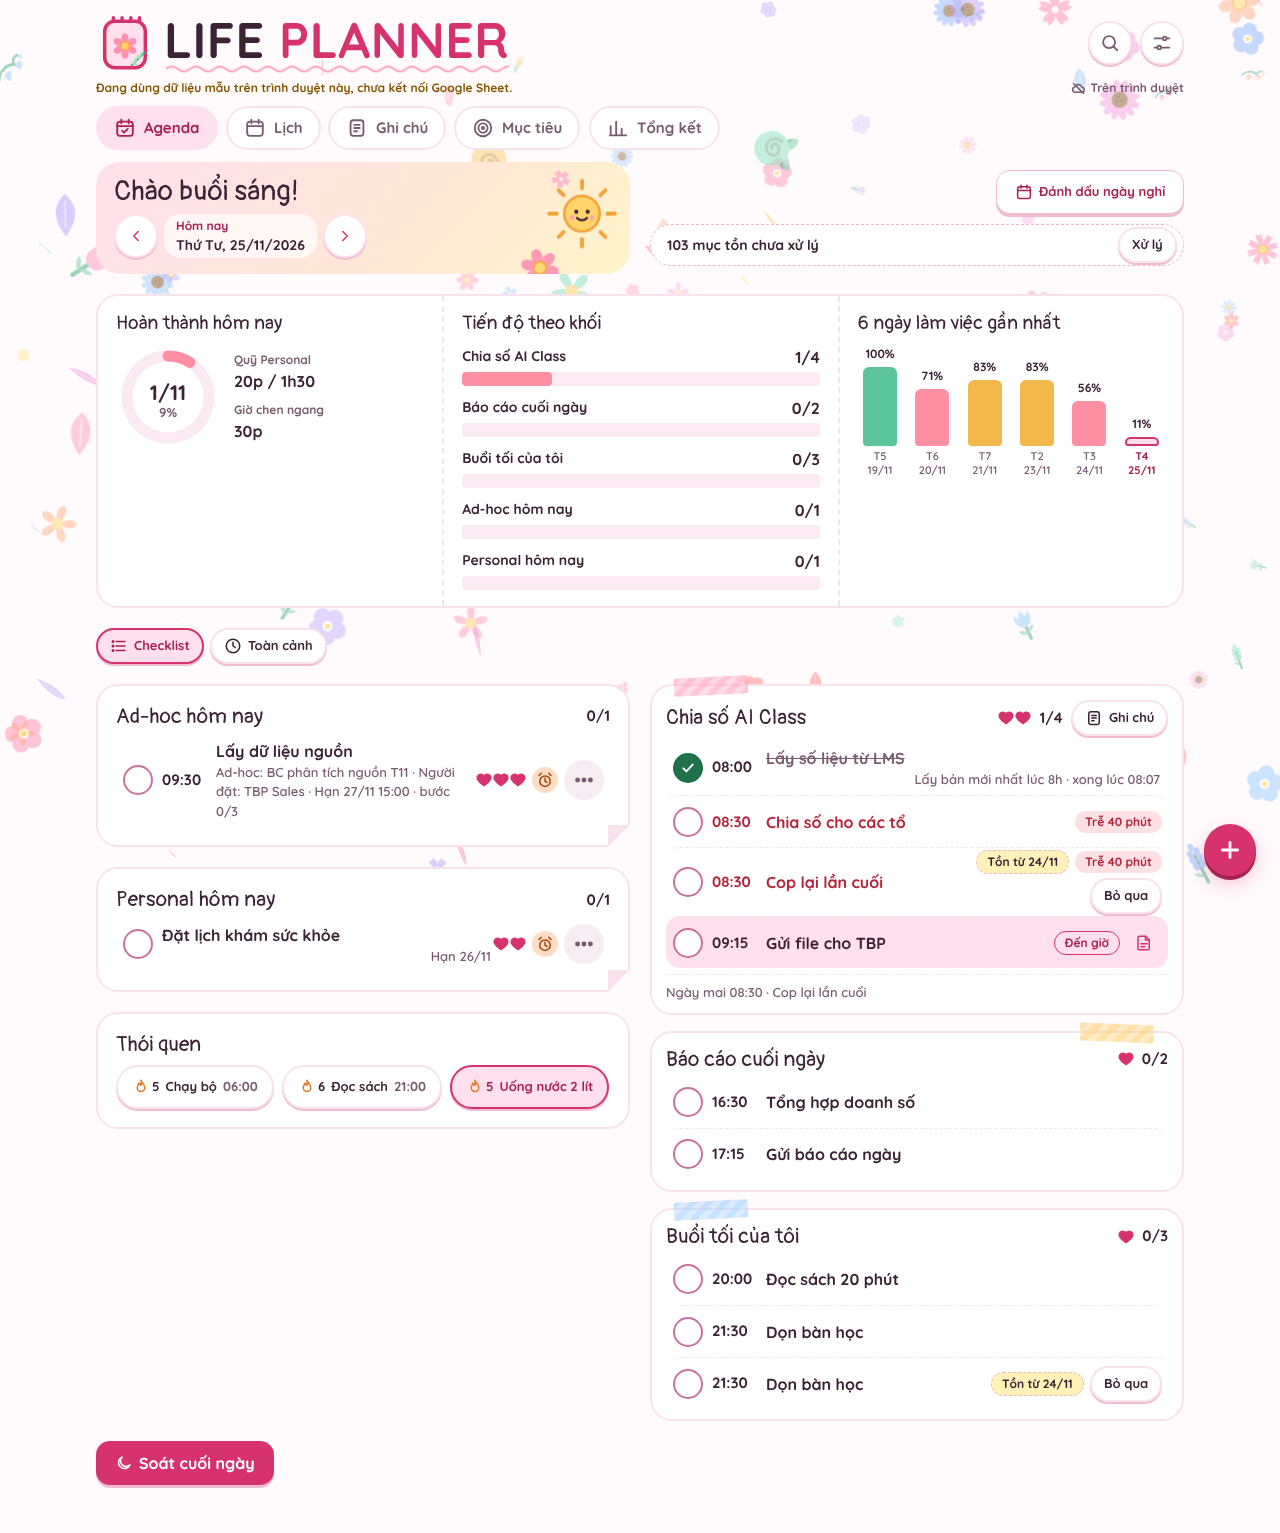
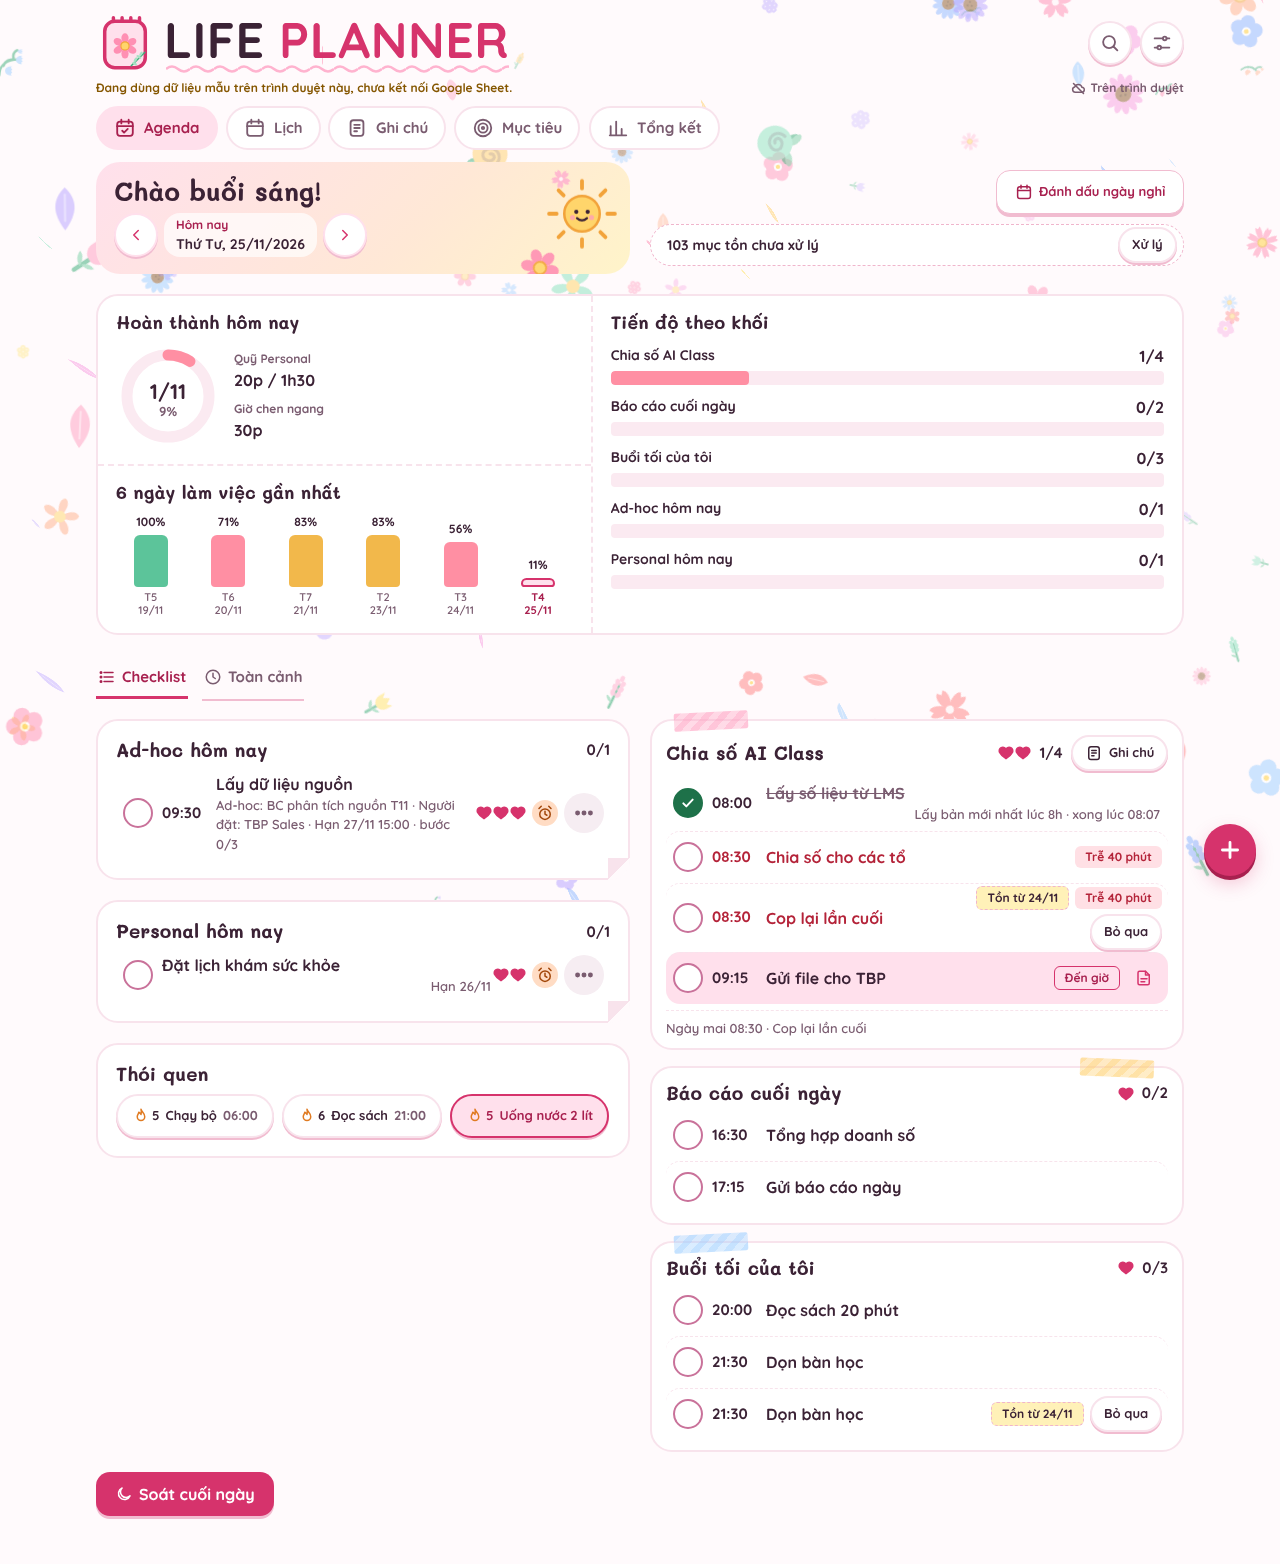
V2: sổ tay Agenda vòng 2 (phông Mali, dải biểu đồ 2 cột không đều, nhãn góc vuông nhẹ, tab gạch chân)
Claude-Session: https://claude.ai/code/session_0149sgxtJqjnDkquQg9Zcj1E

diff --git a/src/v2/css/agenda.css b/src/v2/css/agenda.css
@@ -205,12 +205,12 @@
 @media (max-width:430px){.ag-hello{padding-right:76px}.ag-hello .ag-sun{width:60px;height:60px;right:8px}.ag-daypick{padding:2px 8px}}
 
 /* ---------- Sổ tay (thử 26/11): bớt kiểu bảng điều khiển, giống trang sổ kế hoạch ----------
-   Tiêu đề viết tay (Pangolin), thẻ phẳng có viền giấy, băng dính washi trên khối Daily,
+   Tiêu đề viết tay (Mali), thẻ phẳng có viền giấy, băng dính washi trên khối Daily,
    dải 3 biểu đồ gộp thành một trang có vạch đứt ngăn cột. */
-.ag{--hand:'Pangolin',var(--display)}
-.ag-hello h1,.ag h2{font-family:var(--hand);font-weight:400;letter-spacing:.2px}
-.ag-hello h1{font-size:28px;line-height:1.15}
-.ag h2{font-size:21px}
+.ag{--hand:'Mali',var(--display)}
+.ag-hello h1,.ag h2{font-family:var(--hand);font-weight:700;letter-spacing:0}
+.ag-hello h1{font-size:26px;line-height:1.2}
+.ag h2{font-size:19px}
 
 /* Thẻ phẳng: viền giấy thay cho bóng */
 .ag .card{box-shadow:none;border:2px solid var(--line)}
@@ -221,7 +221,23 @@
 .ag-charts>.ag-chart{border:0;border-radius:0;background:transparent;padding:16px 18px}
 .ag-charts>.ag-chart+.ag-chart{border-top:2px dashed var(--line)}
 @media (min-width:900px){.ag-charts>.ag-chart+.ag-chart{border-top:0;border-left:2px dashed var(--line)}}
-.ag-chart h2{font-size:19px}
+.ag-chart h2{font-size:18px}
+/* Máy tính: 2 cột không đều, Hoàn thành và 6 ngày xếp chồng bên trái, Tiến độ theo khối chiếm cột phải */
+@media (min-width:900px){
+  .ag-charts{grid-template-columns:minmax(0,1fr) minmax(0,1.2fr)}
+  .ag-charts>.ag-chart:nth-child(1){grid-column:1;grid-row:1}
+  .ag-charts>.ag-chart:nth-child(2){grid-column:2;grid-row:1 / span 2}
+  .ag-charts>.ag-chart:nth-child(3){grid-column:1;grid-row:2;border-left:0;border-top:2px dashed var(--line)}
+  .ag-charts .ag-cols{height:104px}
+}
+
+/* Nhãn trạng thái: thẻ giấy góc vuông nhẹ, chỉ nút bấm mới bo tròn hẳn */
+.ag .pill{border-radius:6px}
+/* Checklist / Toàn cảnh: như tab sổ, gạch chân ở mục đang chọn */
+.ag-switch{gap:14px}
+.ag-switch .chip{border:0;border-radius:0;background:none;padding:4px 2px;min-height:44px;font-size:15px;color:var(--muted)}
+.ag-switch .chip.is-on{background:none;color:var(--accent-deep);box-shadow:inset 0 -3px 0 var(--accent)}
+.ag-switch .chip:focus-visible{outline:3px solid var(--accent);outline-offset:2px}
 
 /* Băng dính washi trên đầu khối Daily, màu đổi theo thứ tự khối */
 .ag-run,.ag-tasks{position:relative;overflow:visible}

diff --git a/src/v2/index.html b/src/v2/index.html
@@ -14,7 +14,7 @@
   <meta name="apple-mobile-web-app-status-bar-style" content="default">
   <link rel="preconnect" href="https://fonts.googleapis.com">
   <link rel="preconnect" href="https://fonts.gstatic.com" crossorigin>
-  <link rel="stylesheet" href="https://fonts.googleapis.com/css2?family=Pangolin&family=Quicksand:wght@500;600;700&display=swap">
+  <link rel="stylesheet" href="https://fonts.googleapis.com/css2?family=Mali:wght@600;700&family=Quicksand:wght@500;600;700&display=swap">
   <link rel="stylesheet" href="css/tokens.css?v=v2b">
   <link rel="stylesheet" href="css/base.css?v=v2b">
   <link rel="stylesheet" href="css/agenda.css?v=v2b">
